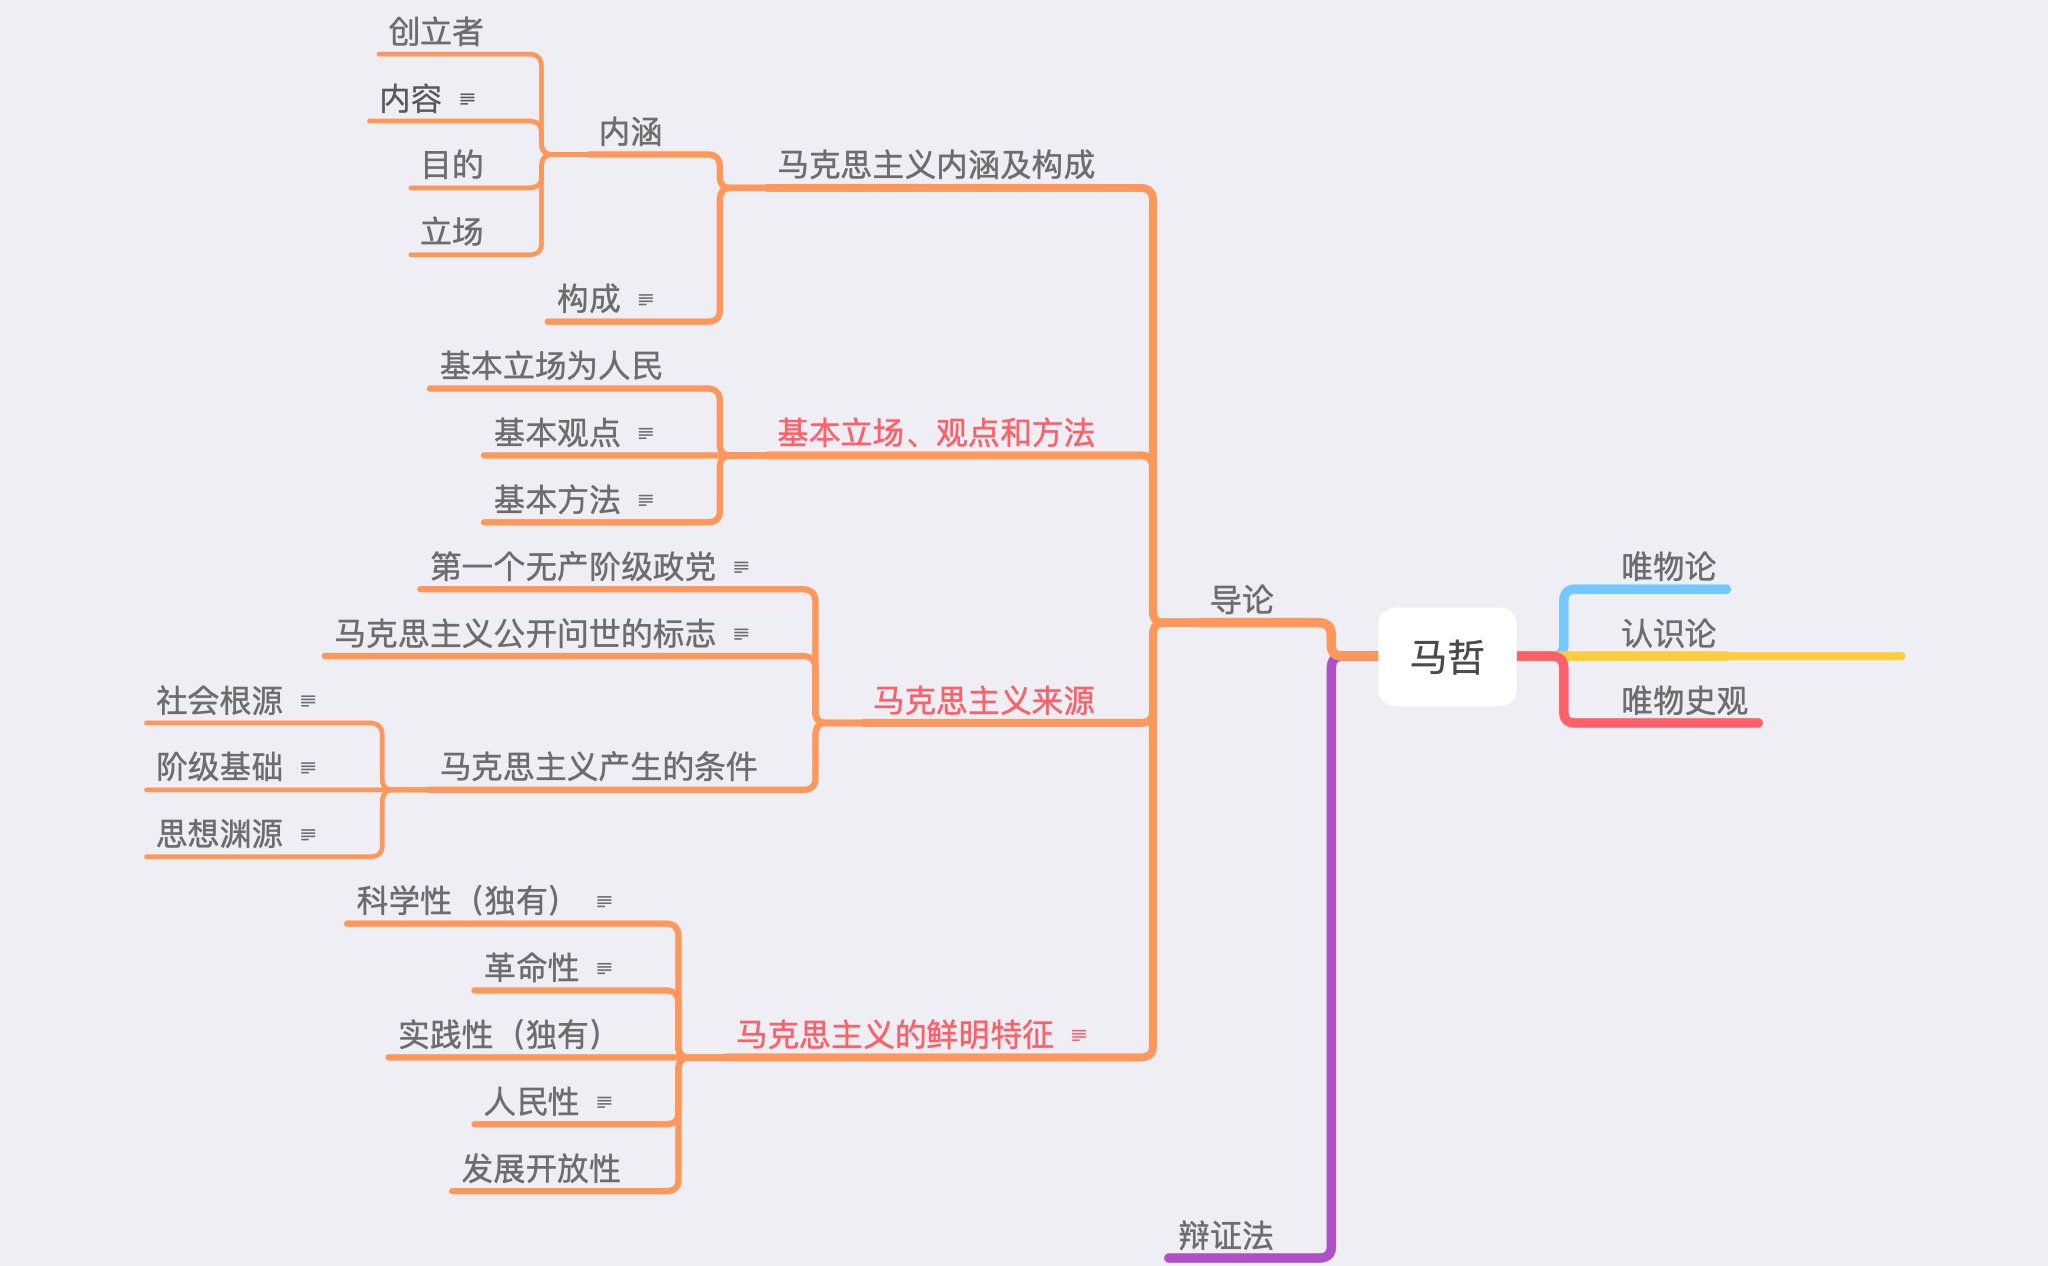
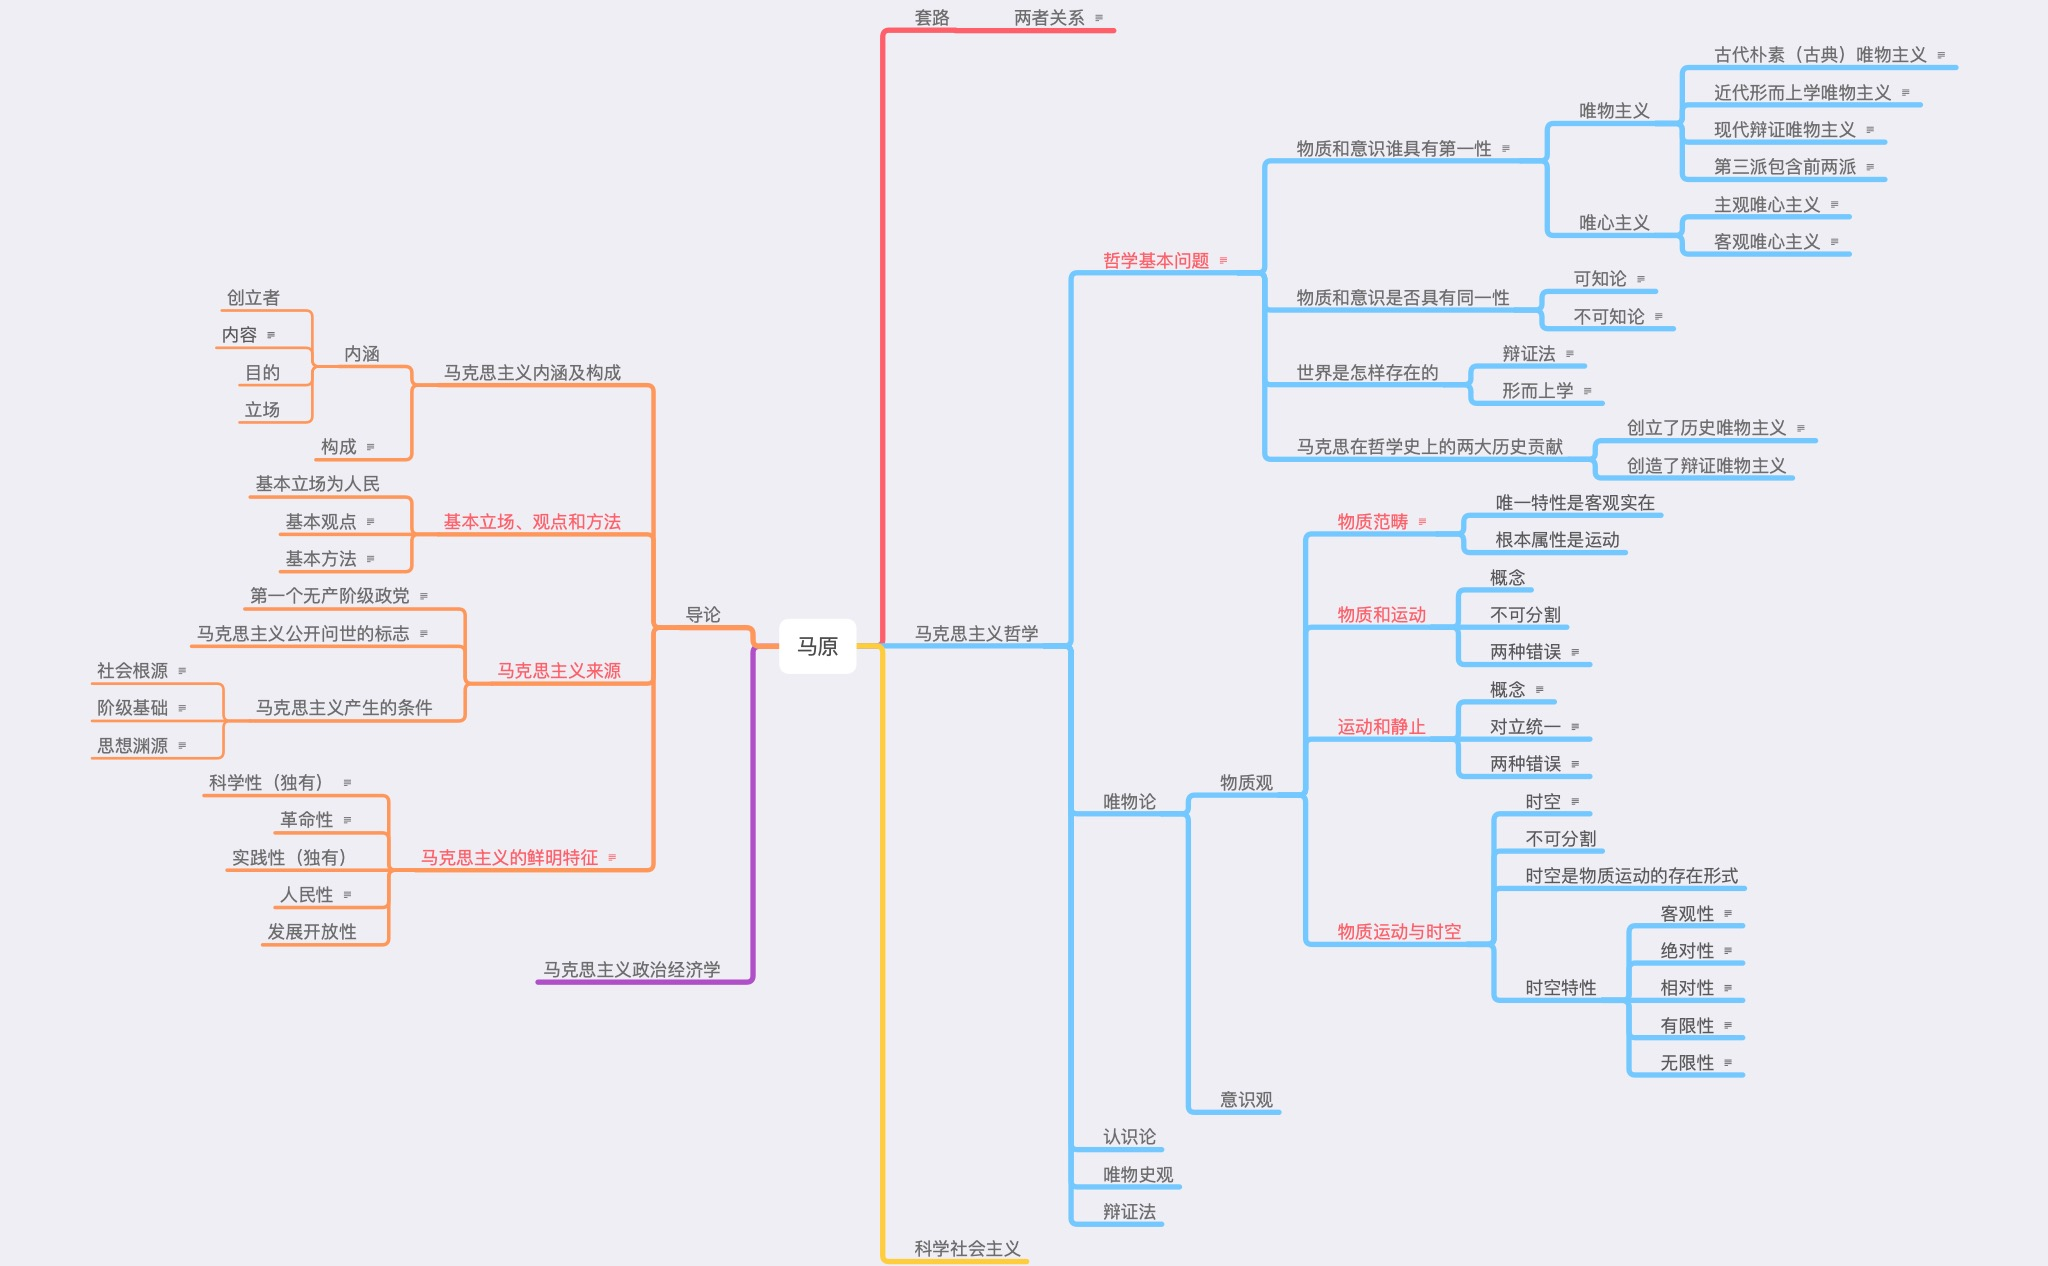
数字特征、马原导论及物质观

Changed region(s): [[0.0312, 0.0, 0.9688, 1.0], [0.3438, 0.0924, 0.5625, 0.2464], [0.4375, 0.0, 0.5312, 0.0308]]

diff --git a/概率论.md b/概率论.md
@@ -149,13 +149,17 @@ $连续型随机变量的分布函数F(x)一定是（-\infin,+\infin）上的连
 
 **0-1分布**
 
-**二项分布** $X～B(n,p)$：$C_n^k\ p^k\ (1-p)^{n-k}$
+**二项分布** $X～B(n,p)$：n 表示为 n 重伯努利实验，p 表示每次实验的成功率
+$$
+C_n^k\ p^k\ (1-p)^{n-k}
+$$
+
 
 **几何分布***
 
 **超几何分布***
 
-**柏松分布** $X～P(\lambda)$：
+**泊松分布** $X～P(\lambda)$：
 $$
 P\{X=k\}=\frac{\lambda^k}{k!}e^{-\lambda}
 $$
@@ -174,7 +178,7 @@ $$
 
 - **正态分布** $X～N(\mu,\sigma^2)$：$\mu代表期望，\sigma^2代表方差（分散程度）$
   $$
-  f(x)=\frac1{\sqrt{2\pi}\sigma}e^{-\frac{(x-\mu)^2}{2\sigma^2}}\  ,\ -\infin<x<+\infin
+  f(x)=\frac1{\sqrt{2\pi}\sigma}exp({-\frac{(x-\mu)^2}{2\sigma^2}})\  ,\ -\infin<x<+\infin
   $$
 
   - 标准正态分布 $X～N(0,1)$：分布函数用 $\Phi(x)$ 表示，概率密度用 $\phi(x)$ 表示
@@ -254,10 +258,83 @@ exp(
 \frac{(x-\mu_1)^2}{\sigma_1^2}
 -\frac{2\rho(x-\mu_1)(y-\mu_2)}{\sigma_1\sigma_2}
 +\frac{(y-\mu_2)^2}{\sigma_2^2}])
-\\
+\\\\
 -\infin<x<+\infin\ \ ,\ -\infin<y<+\infin\ \ 
 \\ 
 \mu_1,\mu_2,\sigma_1,\sigma_2>0
 $$
 
 
+### 两个随机变量函数 $Z=(X,Y)$ 的分布
+
+|  Z   |  X   |  Y   |
+| :--: | :--: | :--: |
+| 离散 | 离散 | 离散 |
+| 连续 | 连续 | 连续 |
+| 连续 | 离散 | 连续 |
+| 连续 | 连续 | 离散 |
+
+#### X、Y 均离散
+
+
+
+#### X、Y 均连续
+
+**卷积公式**：(少用)
+$$
+\iint_{x+y\le z}f(x,y)\ dxdy \Rightarrow \int_{-\infin}^{+\infin}dx\int_{-\infin}^{z-x}f(x,y)\ dy\Rightarrow\int_{-\infin}^{+\infin}f(x,z-x)\ dx
+$$
+
+#### X 离散、Y 连续
+
+用全概率公式展开离散的随机变量
+$$
+F_Z(z)=P\{Z\le z\}=P\{g(X,Y)\le z\}\\
+=\sum_i P\{X=x_i\}P\{g(X,Y)\le z\ |\ X=x_i\}
+$$
+$Z=\max(X,Y) $
+
+$Z=min(X,Y)$
+
+
+
+
+
+## 数字特征
+
+### 数学期望 EX
+
+*X取值 $\times$相应概率 后相加*
+
+离散型：$E(X)=\sum_{k=1}^{+\infin}x_kp_k$
+
+连续型：$E(X)=\int_{-\infin}^{+\infin}xf(x)\ dx$
+
+**期望性质**
+
+#### 函数期望
+
+1. $Y=g(X)$
+
+2. $$
+   若随机变量（X，Y）的概率分布为\ P\{X=x_i,Y=y_j\}=p_{ij}，则\ Z=g(X,Y)\ 的数学期望为\\ 
+   \  E[\ g(X,Y)\ ]=\sum_{i=1}^{+\infin}\sum_{j=1}^{+\infin}g(x,y)\ p_{ij}\\
+   若（X，Y）的概率密度为\ f(x,y),则\ Z=g(X,Y)的数学期望为\\
+    E(Z)=E[\ g(X,Y)\ ]=\int_{-\infin}^{+\infin}\int_{-\infin}^{+\infin}g(x,y)f(x,y)\ dxdy
+   $$
+
+### 方差 DX
+
+**定义**：$D(X)=E\{[\ X-E(X)\ ]^2\}$
+
+**计算**：$DX=E(X^2)-[\ EX\ ]^2$
+
+**常用期望及方差**
+
+| 分布类型 |       符号表示       |     期望 EX     |       方差 DX        |
+| :------: | :------------------: | :-------------: | :------------------: |
+| 二项分布 |     $X～B(n,p)$      |      $np$       |      $np(1-p)$       |
+| 泊松分布 |   $X～P(\lambda)$    |    $\lambda$    |      $\lambda$       |
+| 均匀分布 |     $X～U(a,b)$      |  $\frac{a+b}2$  | $\frac{(b-a)^2}{12}$ |
+| 指数分布 |   $X～E(\lambda)$    | $\frac1\lambda$ | $\frac1{\lambda^2}$  |
+| 正态分布 | $X～N(\mu,\sigma^2)$ |      $\mu$      |      $\sigma^2$      |

diff --git a/数据结构.md b/数据结构.md
@@ -75,11 +75,21 @@
 **代码实现**：
 
 ```c
+#静态分配
 #define MaxSize 50
 typedef struct{
   ElemType data[MaxSize];
   int length;
 }Sqlist;
+
+#动态分配
+#define INIT_SIZE 10
+typedef struct
+{
+    int *data;
+    int maxSize;
+    int length;
+} SeqList;
 ```
 
 
@@ -132,7 +142,7 @@ typedef struct LNode {
 
 **实现方式**：
 
-|          |     带头节点      |    不带头节点     |
-| :------: | :---------------: | :---------------: |
-| 空表判断 | L -> next == null | L -> next == null |
+|          |     带头节点      | 不带头节点 |
+| :------: | :---------------: | :--------: |
+| 空表判断 | L -> next == null | L == null  |
 

diff --git a/政治基础.md b/政治基础.md
@@ -8,7 +8,7 @@
 
 世界观、方法论 -〉哲学（系统化、理论化的世界观） -〉马克思主义哲学 （唯一正确的、科学的哲学）
 
-哲学基本问题
+哲学基本问题：思维（意识）和存在（物质）问题
 
 #### 唯物论---世界本原
 
@@ -151,8 +151,6 @@
    - 家庭美德、个人品格、职业道德、社会公德
 
 ## 法律基础
-
-
 
 
 
